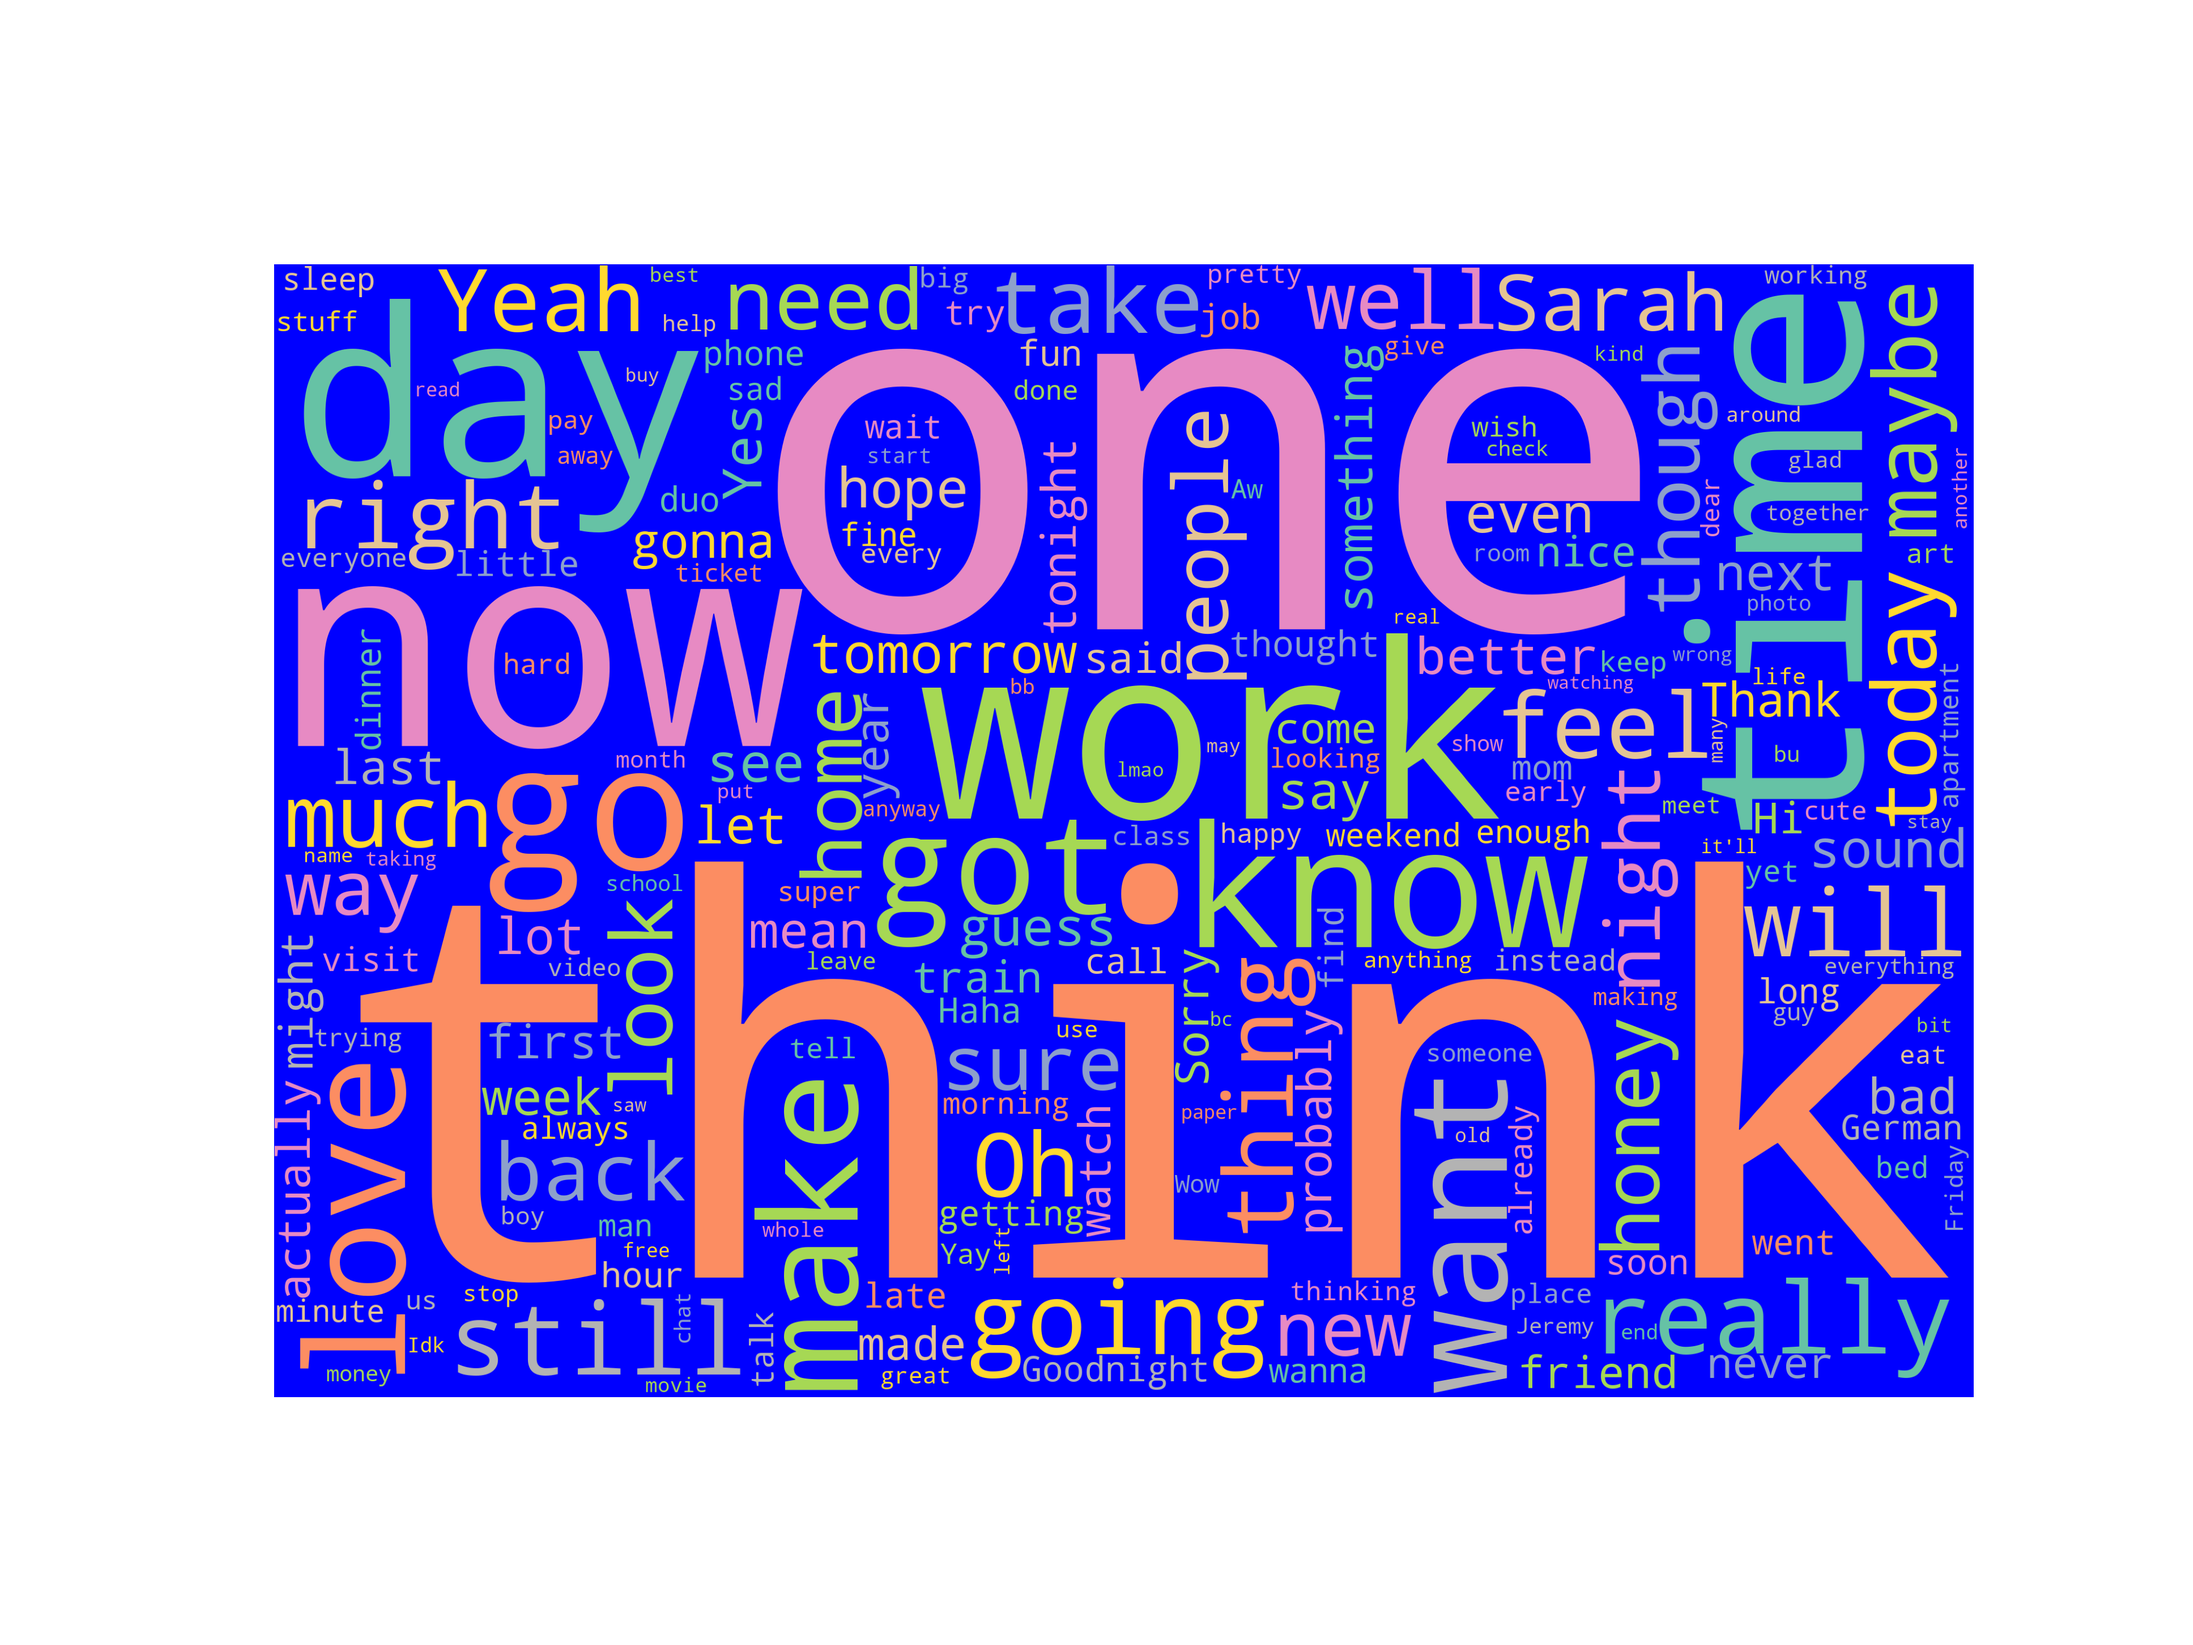
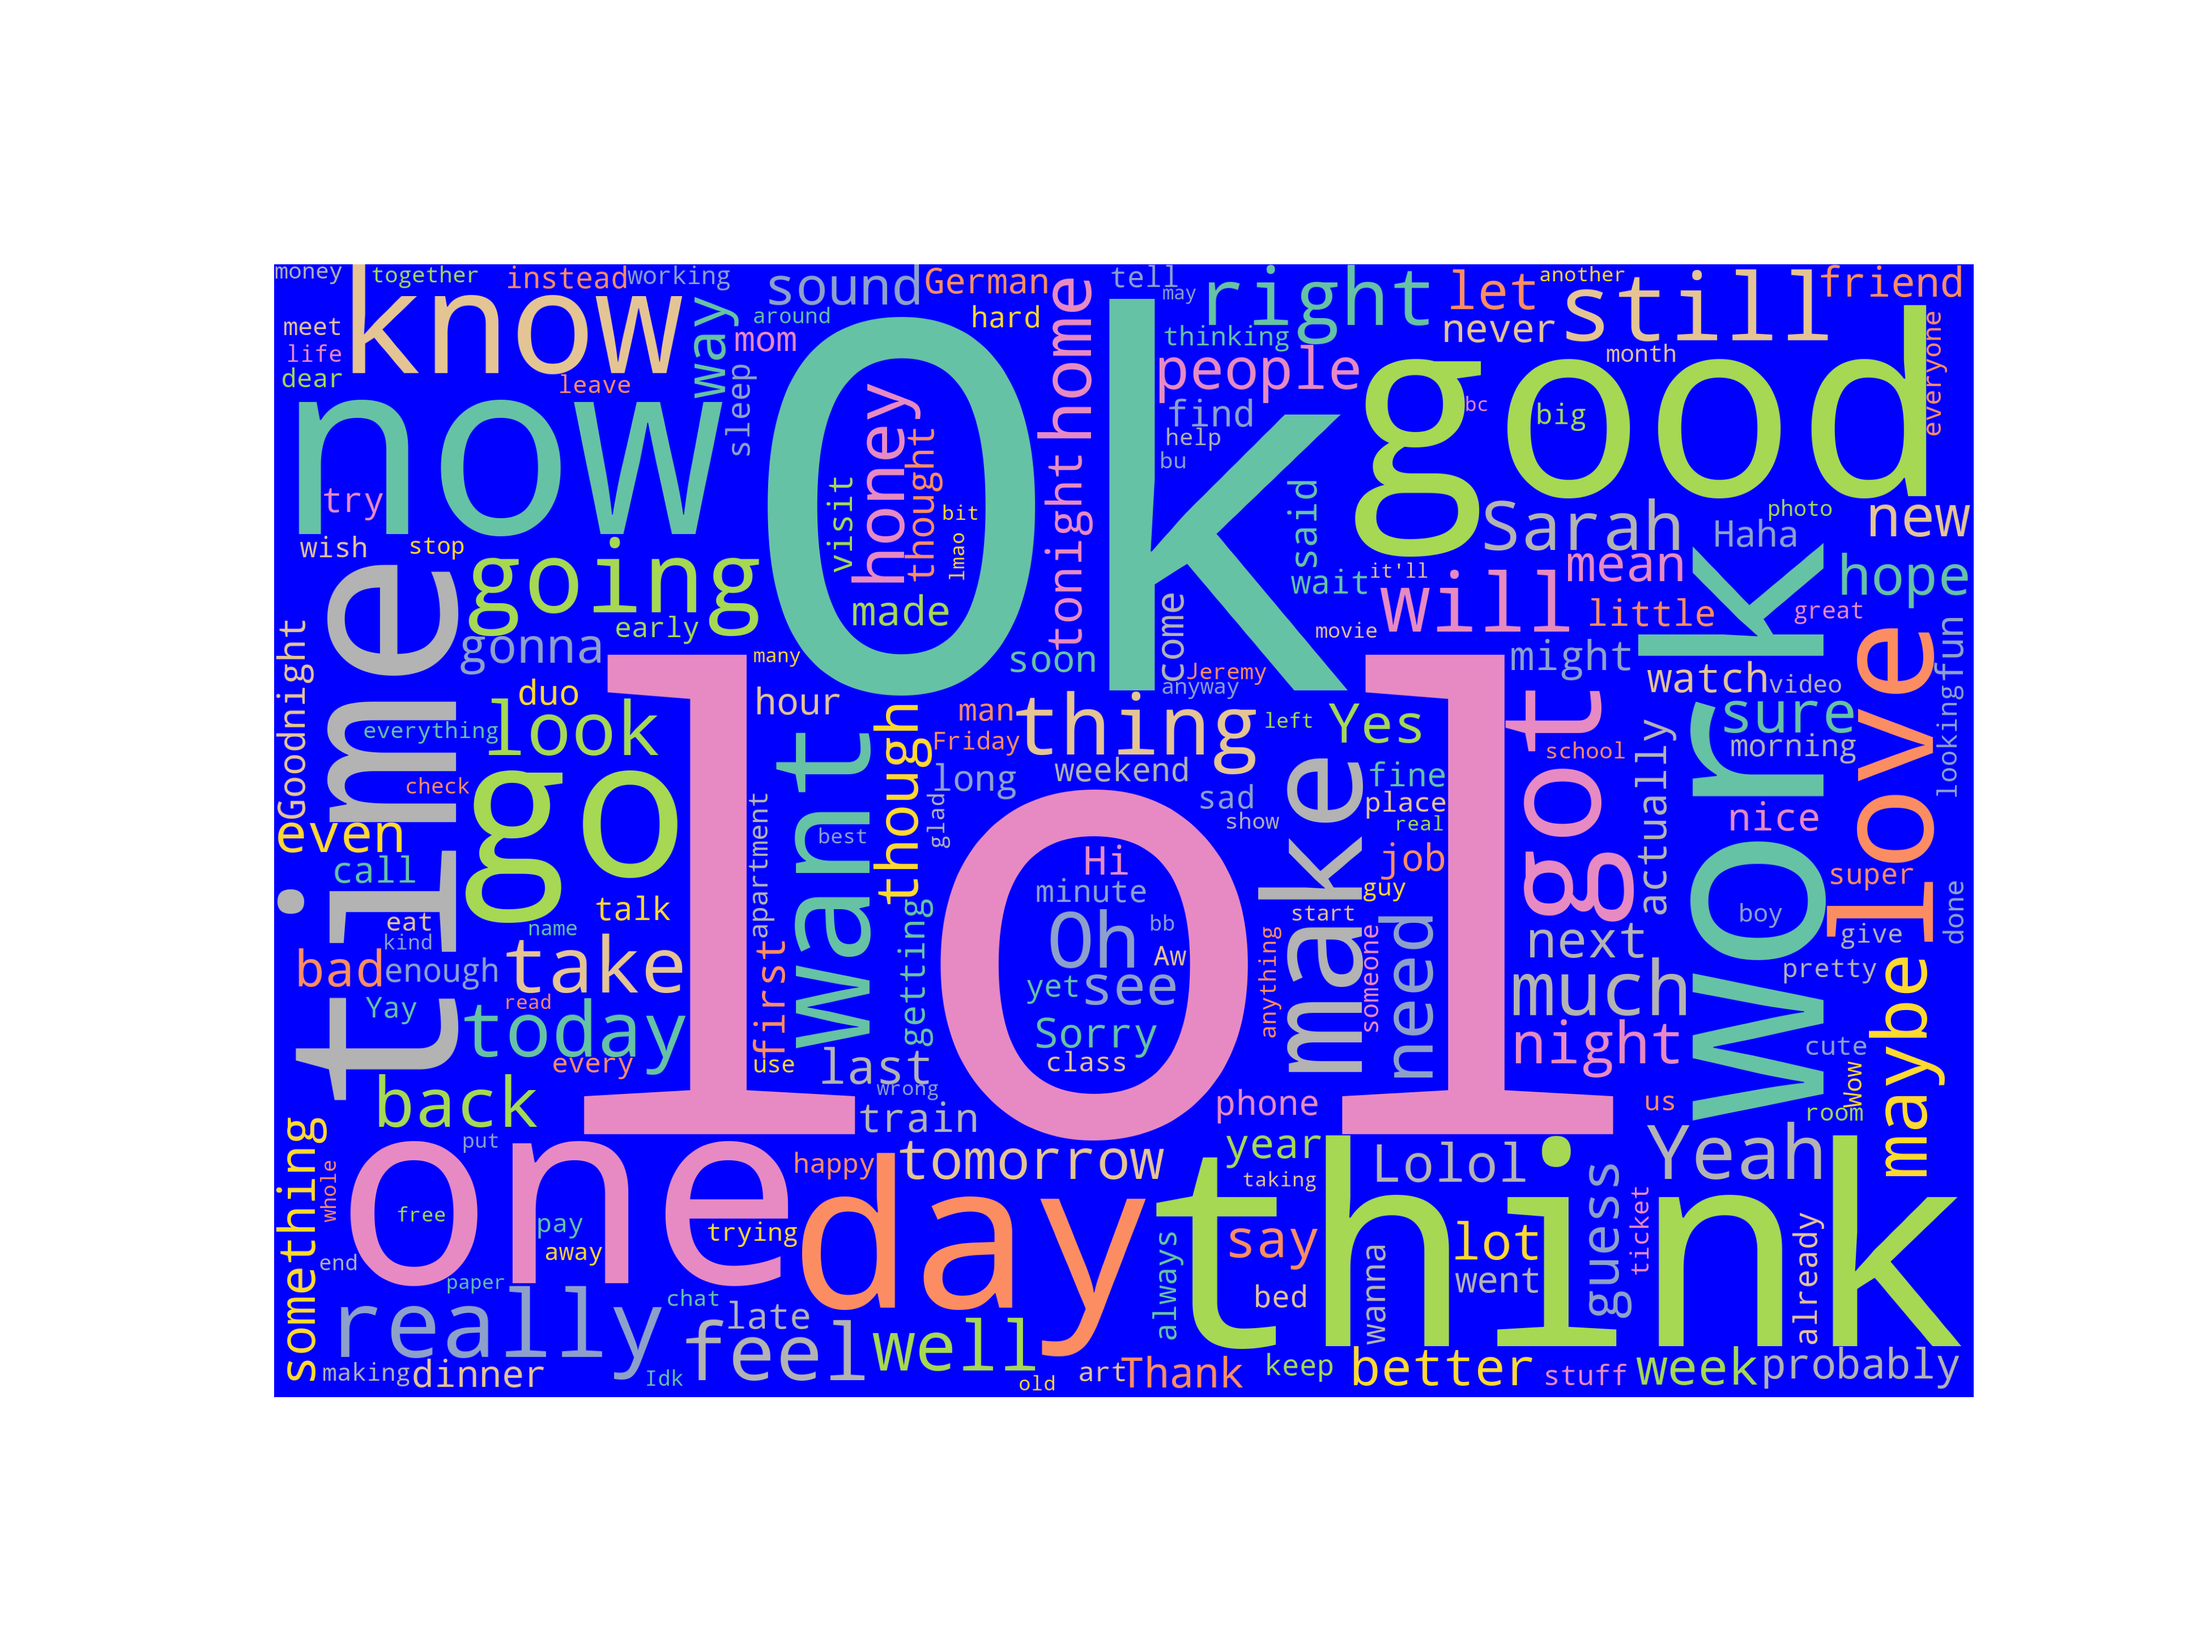
switched to nltk stopwords

Changed region(s): [[0.125, 0.155, 0.9062, 0.868]]

diff --git a/make_cloud.py b/make_cloud.py
@@ -12,6 +12,7 @@ import pandas as pd
 from os import path
 # from PIL import Image
 from wordcloud import WordCloud, STOPWORDS, ImageColorGenerator
+from nltk.corpus import stopwords
 
 # %matplotlib inline
 import matplotlib.pyplot as plt
@@ -33,9 +34,13 @@ def plot_cloud(wordcloud):
 
 
 # Generate wordcloud
+# wordcloud = WordCloud(width = 3000, height = 2000, random_state=1, background_color='blue',
+# colormap='Set2', collocations=False, stopwords = ['lol', 'ok', 'good', 'lolol', 're'] + list(STOPWORDS)).generate(' '.join(df['content']))
+#                     #   colormap='Set2', collocations=False, stopwords = ['bc','didn','bu','lol', 'ok', 'good', 'lolol', 'don', 't', 'll','nt', 've'] + list(STOPWORDS)).generate(' '.join(df['content']))
 wordcloud = WordCloud(width = 3000, height = 2000, random_state=1, background_color='blue',
-colormap='Set2', collocations=False, stopwords = ['lol', 'ok', 'good', 'lolol', 're'] + list(STOPWORDS)).generate(' '.join(df['content']))
+colormap='Set2', collocations=False).generate(' '.join(df['content']))
                     #   colormap='Set2', collocations=False, stopwords = ['bc','didn','bu','lol', 'ok', 'good', 'lolol', 'don', 't', 'll','nt', 've'] + list(STOPWORDS)).generate(' '.join(df['content']))
+
 
 # Plot
 plot_cloud(wordcloud)
